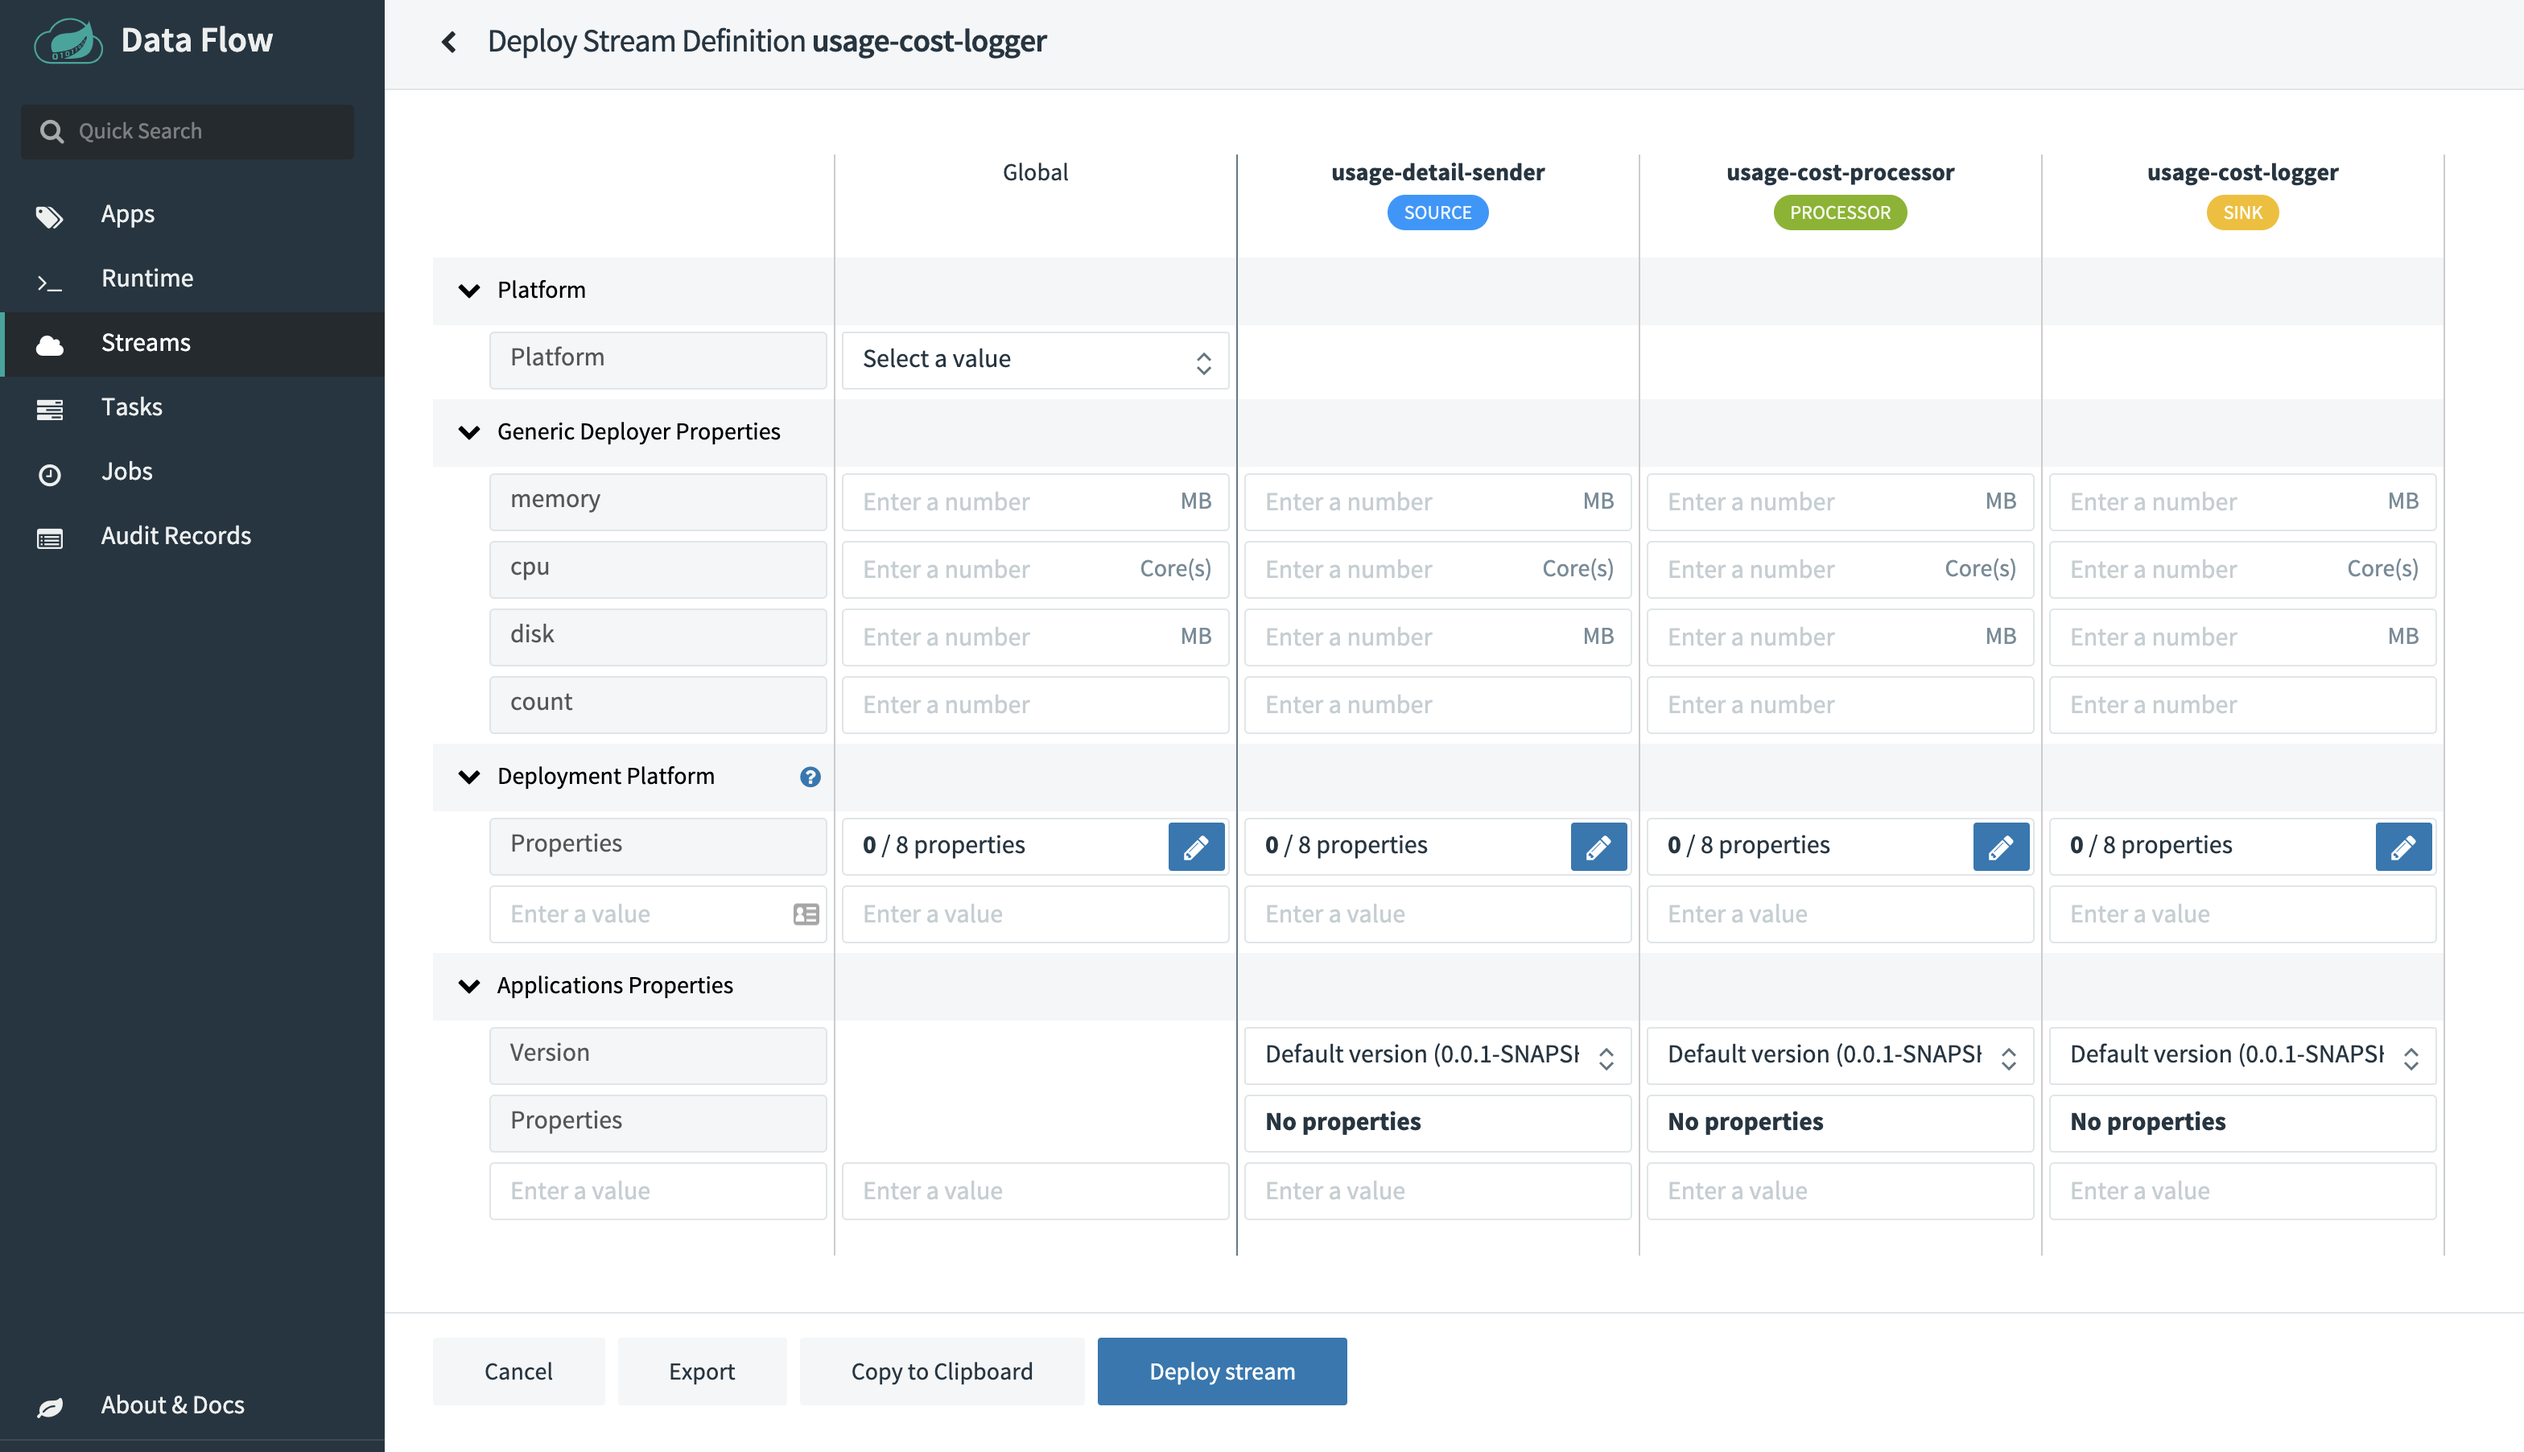
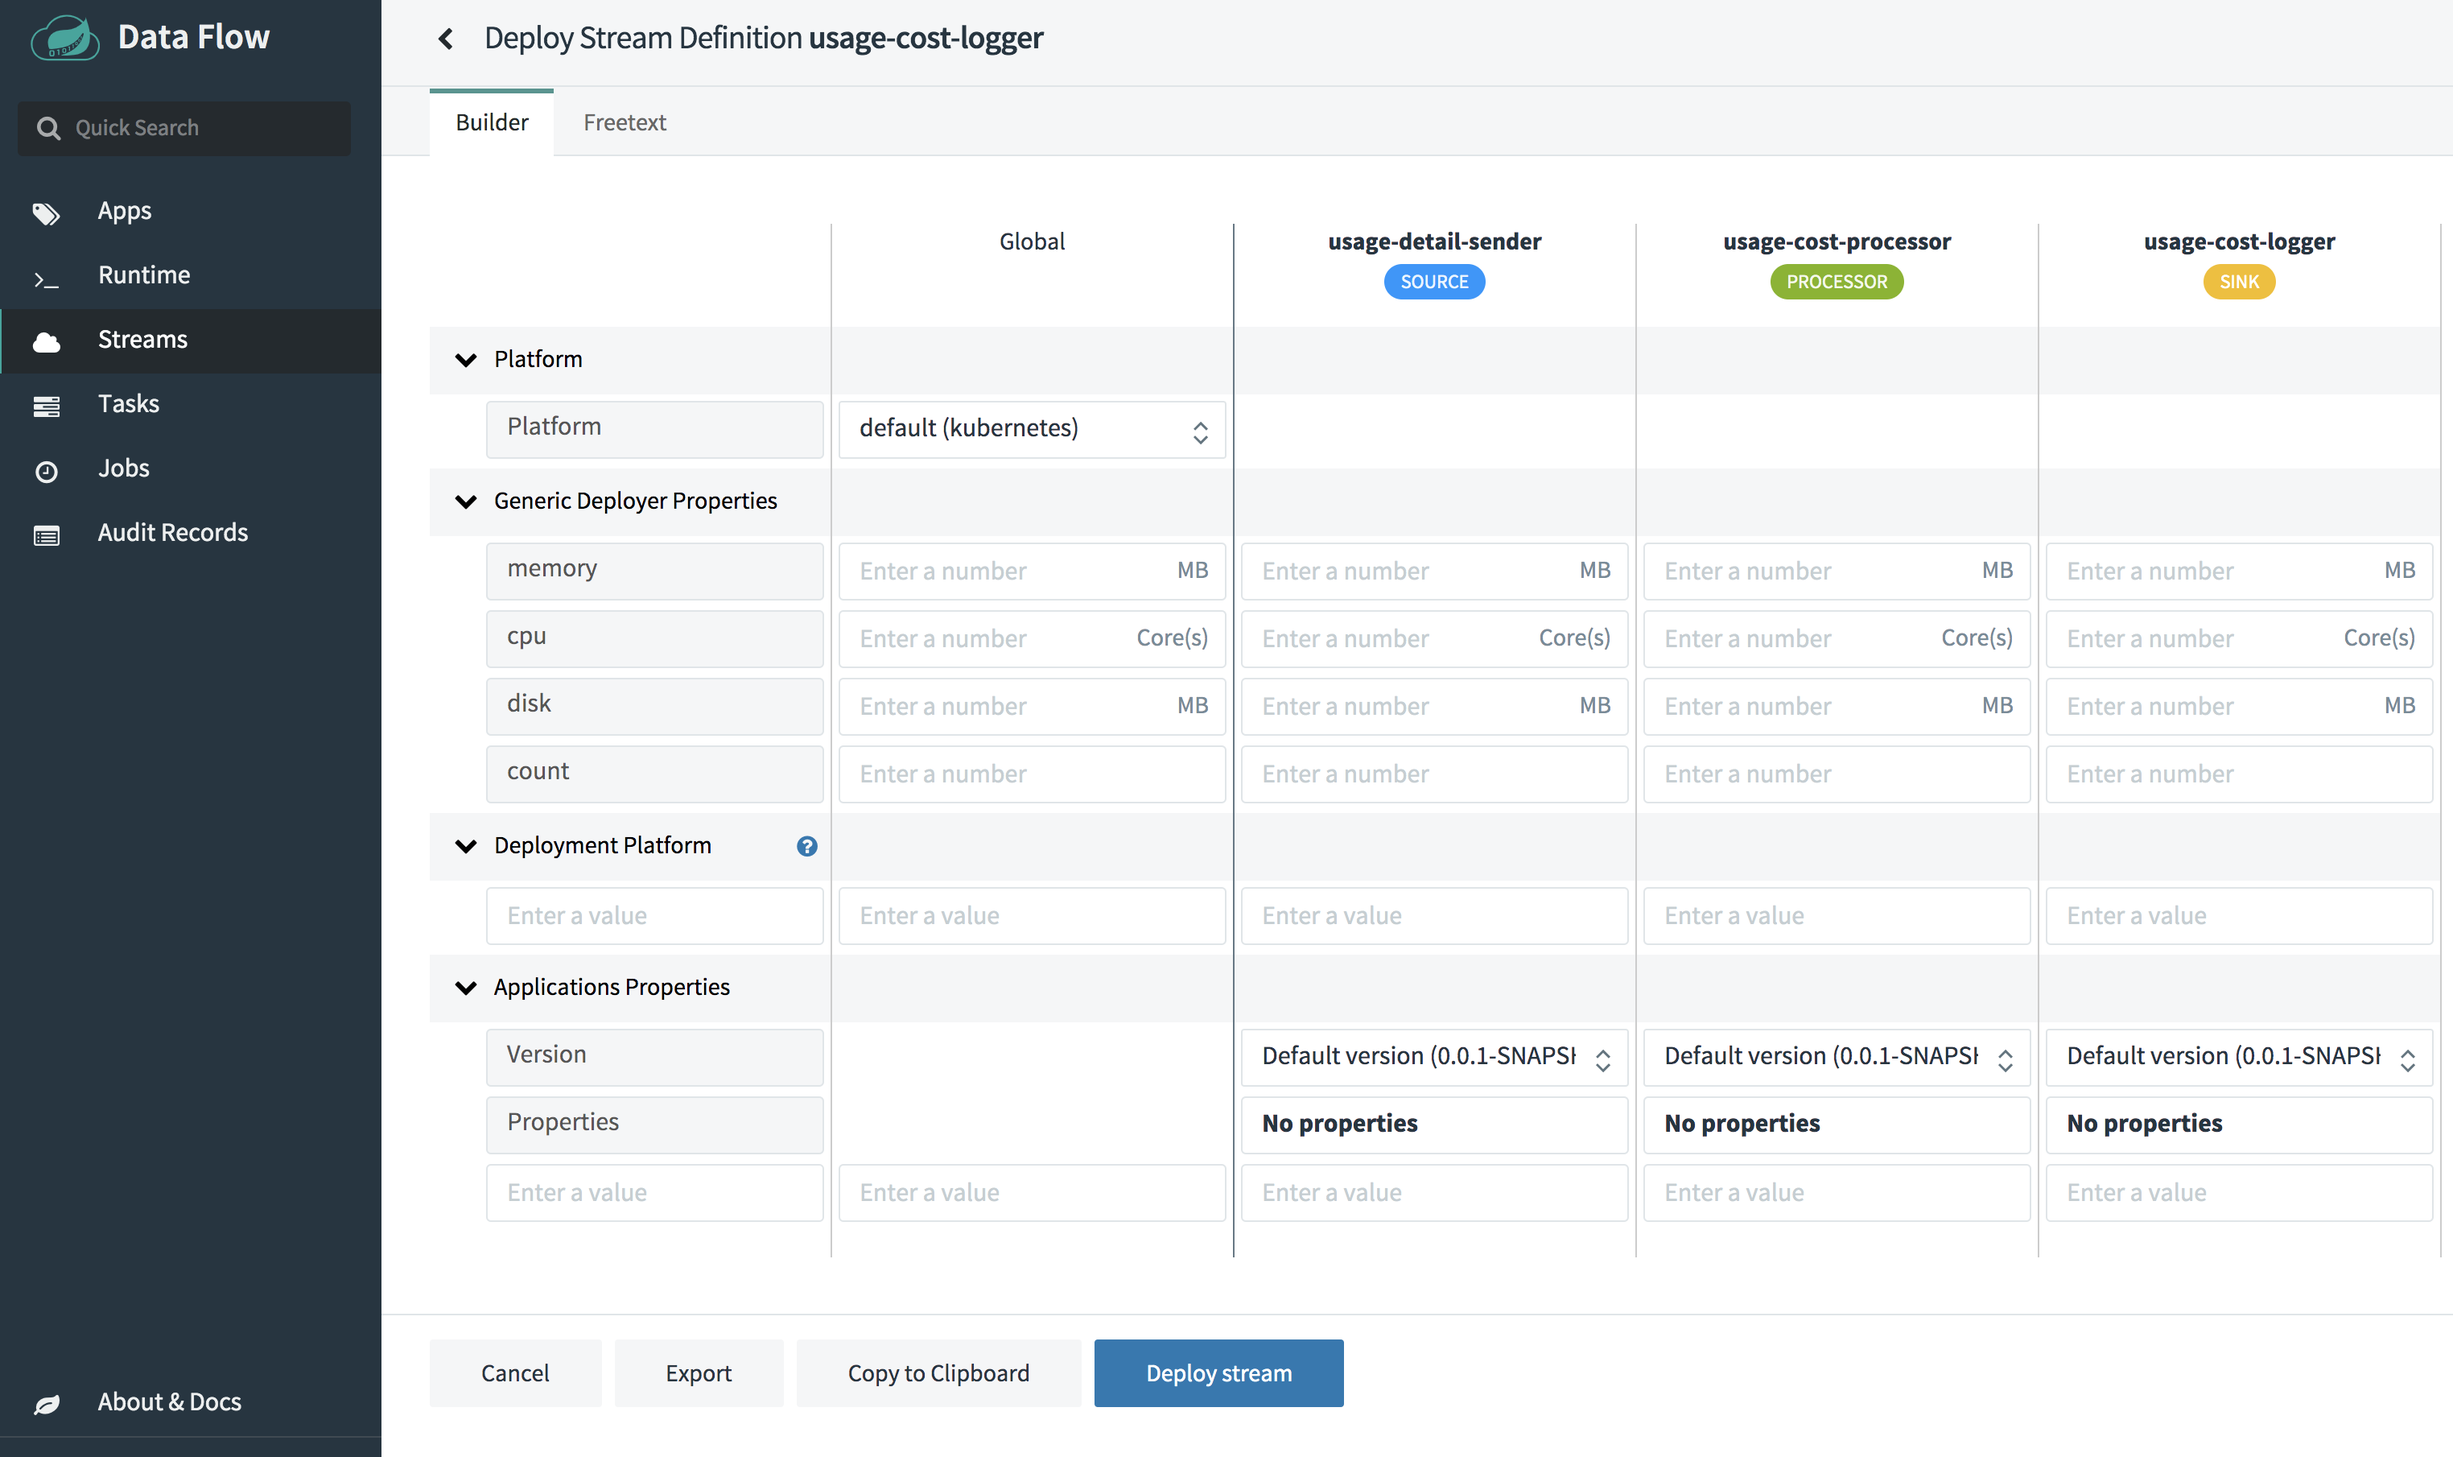
SCDF K8s deployment experience

diff --git a/content/documentation/pages/3-stream-developer-guides/2-streams/3-data-flow-stream.md b/content/documentation/pages/3-stream-developer-guides/2-streams/3-data-flow-stream.md
@@ -81,26 +81,39 @@ When you register an application, you provide:
 Let's assume you are running Spring Cloud Data Flow, Skipper servers running on your local development environment.
 
 **TODO - the images are too small to see what to type.....**
-**TODO - for k8s deployment, they will need to be docker:: , need to handle this so that users don't try to deploy maven:// registered artifact on docker.**
 
 Register the `UsageDetailSender` source application:
 
 From the Applications view, select `Add Application(s)`.
 This will display a view to allow you to register applications.
 
-![Register source application](images/SCDF-register-source-rabbit.png)
+Register the `maven` artifact of the `UsageDetailSender` application with the name `usage-detail-sender`:
+
+![Register source application maven](images/SCDF-register-source-rabbit.png)
+
+If you are using `docker` artifact, then
+
+![Register source application docker](images/SCDF-register-source-rabbit-docker.png)
 
 Select `Register one or more applications` and enter the `name`, `type`, and `URI` for the source application.
 
 Click on `New application` to display another instance of the form to enter the values for the processor.
 
-Register the `UsageCostProcessor` processor application:
+Register the `maven` artifact of the `UsageCostProcessor` processor application with the name `usage-cost-processor`:
 
-![Register source application](images/SCDF-register-processor-rabbit.png)
+![Register source application maven](images/SCDF-register-processor-rabbit.png)
 
-Register the `UsageCostLogger` sink application:
+If you are using `docker` artifact, then
 
-![Register sink application](images/SCDF-register-sink-rabbit.png)
+![Register source application docker](images/SCDF-register-processor-rabbit-docker.png)
+
+Register the `maven` artifact of the `UsageCostLogger` sink application with the name `usage-cost-logger`
+
+![Register sink application maven](images/SCDF-register-sink-rabbit.png)
+
+If you are using `docker` artifact, then
+
+![Register source application docker](images/SCDF-register-sink-rabbit-docker.png)
 
 Click on `Register the application(s)` to complete the registration. This will take you back to the Applications view which lists your applications.
 
@@ -118,6 +131,8 @@ Select `Create stream(s)` to display a graphical editor to create the stream def
 
 You will see the `Source`, `Processor` and `Sink` applications, as registered above, in the left panel. Drag and drop each app to the canvas and then use the handles to connect them together. Notice the equivalent Data Flow DSL definition in the top text panel. Click `Create Stream`.
 
+You can type the name of the stream `usage-cost-logger` when create the stream.
+
 ## Deployment
 
 Click on the arrow head icon to deploy the stream. This will take you to the Deploy Stream page from where you may enter additional deployment properties.
@@ -125,6 +140,8 @@ Click on the arrow head icon to deploy the stream. This will take you to the Dep
 Select `Deploy Stream`.
 
 ![Stream created](images/SCDF-stream-created.png)
+
+When deploying the stream, choose the target platform accounts from local, Kubernetes, Cloud Foundry - based on the Spring Cloud Skipper server deployer platform account setup.
 
 ![Deploy stream](images/SCDF-deploy-stream.png)
 
@@ -175,23 +192,59 @@ Besides verifying the runtime status of your stream, you should also verify the 
 
 ### Kubernetes
 
-**TODO - not finished**
+Once you have the Spring Cloud Data Flow server up and running on kubernetes environment using the instructions from the [installation guide](/docs/installation/kubernetes/helm/), you can:
+
+- register the stream applications
+- create, deploy and manage streams
+
+#### Registering applications with Spring Cloud Data Flow server
+
+The kubernetes environment requires the application artifacts to be `docker` images and hence you need to register the docker based artifacts from [above](#development) when registering the applications with Spring Cloud Data Flow server.
+
+For the `UsageDetailSender` source:
+
+```
+docker://springcloudstream/usage-detail-sender-rabbit:0.0.1-SNAPSHOT
+```
+
+For the `UsageCostProcessor` processor:
+
+```
+docker://springcloudstream/usage-cost-processor-rabbit:0.0.1-SNAPSHOT
+```
+
+For the `UsageCostLogger` sink:
+
+```
+docker://springcloudstream/usage-cost-logger-rabbit:0.0.1-SNAPSHOT
+```
+
+You can register these applications as described in the app registration step [above](#application-registration)
+
+#### Stream Deployment
+
+Once the applications registered, you can deploy the stream as per the instructions from the stream deployment [above](#deployment).
 
 ##### List the Pods
 
-The following command (with output) shows how to list the pods.
+The following command:
 
-    $ kubectl get pods
-    NAME                              READY     STATUS    RESTARTS   AGE
-    mystream-log-v1-0-2k4r8             1/1       Running   0          2m
-    mystream-time-v1-qhdqq              1/1       Running   0          2m
-    mysql-777890292-z0dsw          1/1       Running   0          49m
-    rabbitmq-317767540-2qzrr       1/1       Running   0          49m
-    scdf-server-2734071167-bjd3g   1/1       Running   0          12m
-    skipper-2408247821-50z31       1/1       Running   0          15m
+```bash
+ kubectl get pods
+```
 
-    ...
-    ...
+lists the pods (including the server components and the streaming applications):
+
+```
+NAME                                                         READY   STATUS    RESTARTS   AGE
+scdf-release-data-flow-server-795c77b85c-tqdtx               1/1     Running   0          36m
+scdf-release-data-flow-skipper-85b6568d6b-2jgcv              1/1     Running   0          36m
+scdf-release-mysql-744757b689-tsnnz                          1/1     Running   0          36m
+scdf-release-rabbitmq-5fb7f7f644-878pz                       1/1     Running   0          36m
+usage-cost-logger-usage-cost-logger-v1-568599d459-hk9b6      1/1     Running   0          2m41s
+usage-cost-logger-usage-cost-processor-v1-79745cf97d-dwjpw   1/1     Running   0          2m42s
+usage-cost-logger-usage-detail-sender-v1-6cd7d9d9b8-m2qf6    1/1     Running   0          2m41s
+```
 
 ##### Verify the Logs
 
@@ -199,13 +252,25 @@ To be sure the steps in the previous sections have worked correctly, you
 should verify the logs. The following example shows how to make sure
 that the values you expect appear in the logs:
 
-    $ kubectl logs -f mystream-log-v1-0-2k4r8
-    ...
-    ...
-    2017-10-30 22:59:04.966  INFO 1 --- [ mystream.time.mystream-1] log-sink                                 : 10/30/17 22:59:04
-    2017-10-30 22:59:05.968  INFO 1 --- [ mystream.time.mystream-1] log-sink                                 : 10/30/17 22:59:05
-    2017-10-30 22:59:07.000  INFO 1 --- [ mystream.time.mystream-1] log-sink                                 : 10/30/17 22:59:06
+```bash
+kubectl logs -f usage-cost-logger-usage-cost-logger-v1-568599d459-hk9b6
+```
+
+```
+2019-05-17 17:53:44.189  INFO 1 --- [e-cost-logger-1] i.s.d.s.u.UsageCostLoggerApplication     : {"userId": "user2", "callCost": "0.7000000000000001", "dataCost": "23.950000000000003" }
+2019-05-17 17:53:45.190  INFO 1 --- [e-cost-logger-1] i.s.d.s.u.UsageCostLoggerApplication     : {"userId": "user4", "callCost": "2.9000000000000004", "dataCost": "10.65" }
+2019-05-17 17:53:46.190  INFO 1 --- [e-cost-logger-1] i.s.d.s.u.UsageCostLoggerApplication     : {"userId": "user3", "callCost": "5.2", "dataCost": "28.85" }
+2019-05-17 17:53:47.192  INFO 1 --- [e-cost-logger-1] i.s.d.s.u.UsageCostLoggerApplication     : {"userId": "user4", "callCost": "1.7000000000000002", "dataCost": "30.35" }
+```
 
 ## Comparison with standalone deployment
 
-**Discuss what is being done behind the scenes to simplify the experience..make the case for data flow**
+In this section, we deployed the stream using Spring Cloud Data Flow using the stream DSL:
+
+```
+usage-detail-sender | usage-cost-processor | usage-cost-logger
+```
+
+When these three applications were deployed as standalone applications, you need to set the binding properties that connect these applications and make them as a stream.
+
+Instead, Spring Cloud Data Flow lets you deploy all these three streaming applications as a single stream by taking care of the plumbing of one application to the other to form the data flow.
